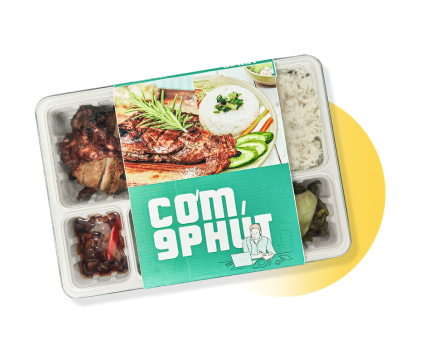
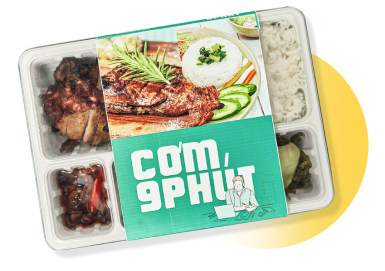
resize order view.

diff --git a/lib/app/modules/order/views/order_view.dart b/lib/app/modules/order/views/order_view.dart
@@ -54,19 +54,19 @@ class OrderView extends GetView<OrderController> {
             crossAxisAlignment: CrossAxisAlignment.start,
             children: [
               SizedBox(
-                height: 200.h,
+                height: 160.h,
                 child: PageView(
                   controller: controller.pageController,
                   children: controller.lDescriptionImage
                       .map((e) => Image.asset(
                             e,
-                            fit: BoxFit.cover,
+                            fit: BoxFit.fitHeight
                           ))
                       .toList(),
                 ),
               ),
               const SizedBox(
-                height: 25,
+                height: 10,
               ),
               Center(
                 child: Obx(() => AnimatedSmoothIndicator(
@@ -75,8 +75,8 @@ class OrderView extends GetView<OrderController> {
                       effect: ScrollingDotsEffect(
                           spacing: 6.w,
                           radius: 100,
-                          dotWidth: 7.w,
-                          dotHeight: 7.w,
+                          dotWidth: 6.w,
+                          dotHeight: 6.w,
                           dotColor: colorBackgroundGrey5,
                           activeDotColor: colorGreen60),
                     )),
@@ -197,11 +197,11 @@ class OrderView extends GetView<OrderController> {
                 },
               ),
               const SizedBox(
-                height: 10,
+                height: 5,
               ),
               Obx(
                 () => Padding(
-                  padding: const EdgeInsets.only(bottom: 10),
+                  padding: const EdgeInsets.only(bottom: 0),
                   child: AppText(
                     controller.errorAddress.value,
                     style: typoNormalTextRegular.copyWith(
@@ -219,10 +219,9 @@ class OrderView extends GetView<OrderController> {
                         LocaleKeys.delivery_date.tr,
                         style: typoSuperSmallTextBold,
                       ),
-                      const SizedBox(
-                        height: 10,
-                      ),
+                      itemSpace(),
                       Obx(() => AppTextField(
+                          isShowErrorText: false,
                           readOnly: true,
                           onTap: () => controller.pickDate(context),
                           controller: controller.dateController,
@@ -255,10 +254,9 @@ class OrderView extends GetView<OrderController> {
                         LocaleKeys.delivery_time.tr,
                         style: typoSuperSmallTextBold,
                       ),
-                      const SizedBox(
-                        height: 10,
-                      ),
+                      itemSpace(),
                       Obx(() => AppTextField(
+                          isShowErrorText: false,
                           readOnly: true,
                           onTap: () => controller.pickTime(context),
                           errorText: controller.errorDate.value,
@@ -281,7 +279,11 @@ class OrderView extends GetView<OrderController> {
                     ],
                   ))
                 ],
-              ),SizedBox(height: 7,),
+              ),
+              SizedBox(
+                height: 11.h,
+              ),
+              itemSpace(),
               AppText(
                 LocaleKeys.choose_number.tr,
                 style: typoSuperSmallTextBold,
@@ -289,7 +291,7 @@ class OrderView extends GetView<OrderController> {
               itemSpace(),
               qtyWidget(),
               const SizedBox(
-                height: 10,
+                height: 5,
               ),
               Obx(
                 () => Padding(
@@ -371,7 +373,7 @@ class OrderView extends GetView<OrderController> {
         },
       );
 
-  Widget itemSpace() => const SizedBox(
-        height: 10,
+  Widget itemSpace() => SizedBox(
+        height: 3.h,
       );
 }

diff --git a/lib/app/components/app_text_field.dart b/lib/app/components/app_text_field.dart
@@ -76,7 +76,7 @@ class _AppTextFieldState extends State<AppTextField> {
   @override
   Widget build(BuildContext context) {
     return Wrap(
-      runSpacing: 10,
+      runSpacing: 5,
       children: [
         TextField(
           enabled: widget.enable,
